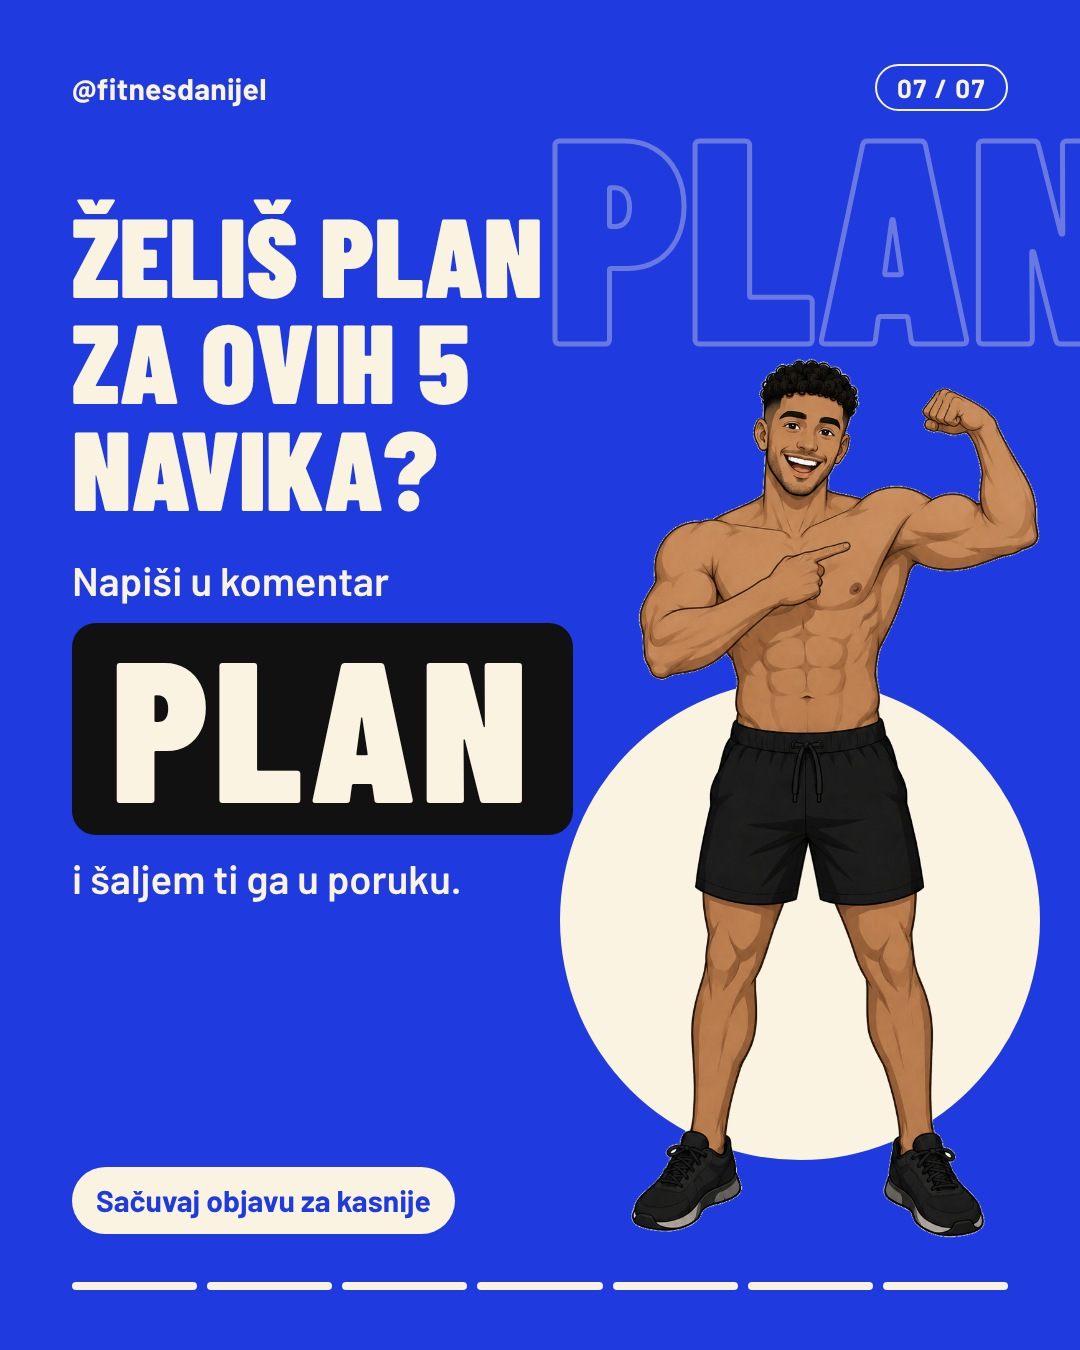
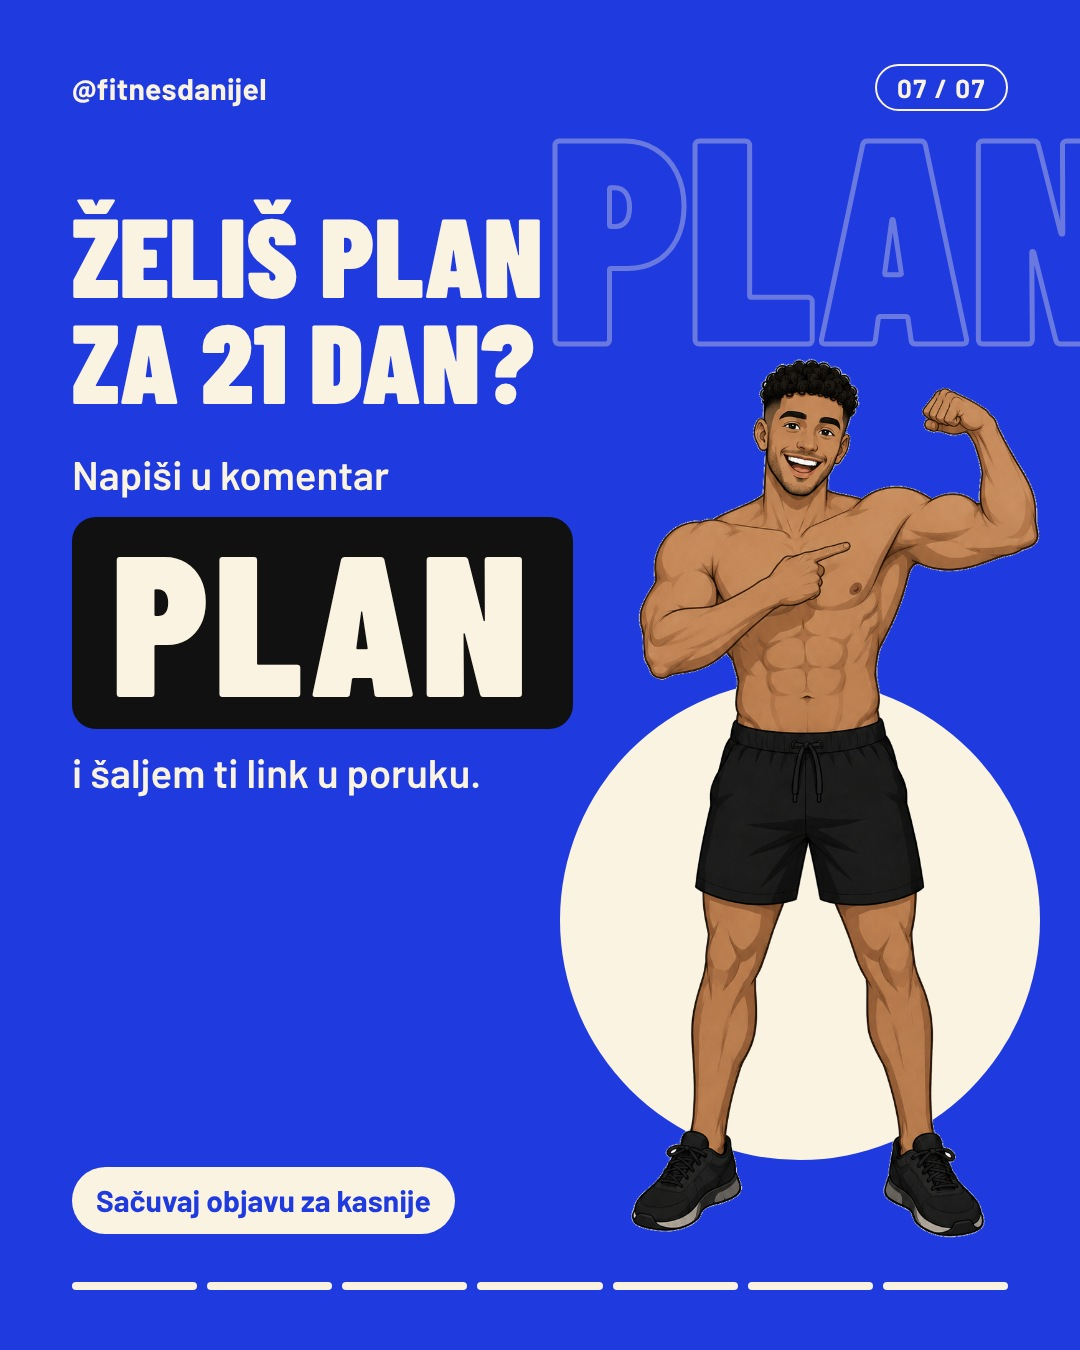
Dan 1: zaključni slajd vodi na plan za 21 dan
Claude-Session: https://claude.ai/code/session_01TEmaZsc78VL6WtM5VuJCUE

Changed region(s): [[0.0611, 0.2178, 0.55, 0.6844]]

diff --git a/predloga/slajdi/S7.dc.html b/predloga/slajdi/S7.dc.html
@@ -22,11 +22,11 @@ body{margin:0}
 <div style="font-size: 26px; font-weight: 700; letter-spacing: 0.06em; padding: 6px 20px; border: 2px solid #FBF3E2; border-radius: 999px">07 / 07</div>
 </div>
 <div style="position: absolute; left: 72px; top: 200px; width: 540px; display: flex; flex-direction: column; align-items: flex-start; gap: 36px">
-<h2 style="margin: 0; font-family: 'Barlow Condensed', sans-serif; font-weight: 900; font-size: 112px; line-height: 0.95; text-transform: uppercase">Želiš plan za ovih 5 navika?</h2>
+<h2 style="margin: 0; font-family: 'Barlow Condensed', sans-serif; font-weight: 900; font-size: 112px; line-height: 0.95; text-transform: uppercase">Želiš plan za 21 dan?</h2>
 <div style="display: flex; flex-direction: column; align-items: flex-start; gap: 18px">
 <div style="font-size: 40px; font-weight: 600; line-height: 1.25">Napiši u komentar</div>
 <div style="font-family: 'Barlow Condensed', sans-serif; font-weight: 900; font-size: 200px; line-height: 0.9; letter-spacing: 0.03em; background: #111111; color: #FBF3E2; padding: 10px 40px 22px; border-radius: 24px">PLAN</div>
-<div style="font-size: 40px; font-weight: 600; line-height: 1.25; width: 420px">i šaljem ti ga u poruku.</div>
+<div style="font-size: 40px; font-weight: 600; line-height: 1.25; width: 440px">i šaljem ti link u poruku.</div>
 </div>
 </div>
 <div style="position: absolute; left: 72px; bottom: 116px; font-size: 30px; font-weight: 700; line-height: 1.3; background: #FBF3E2; color: #1F3BE0; padding: 14px 24px; border-radius: 999px">Sačuvaj objavu za kasnije</div>
